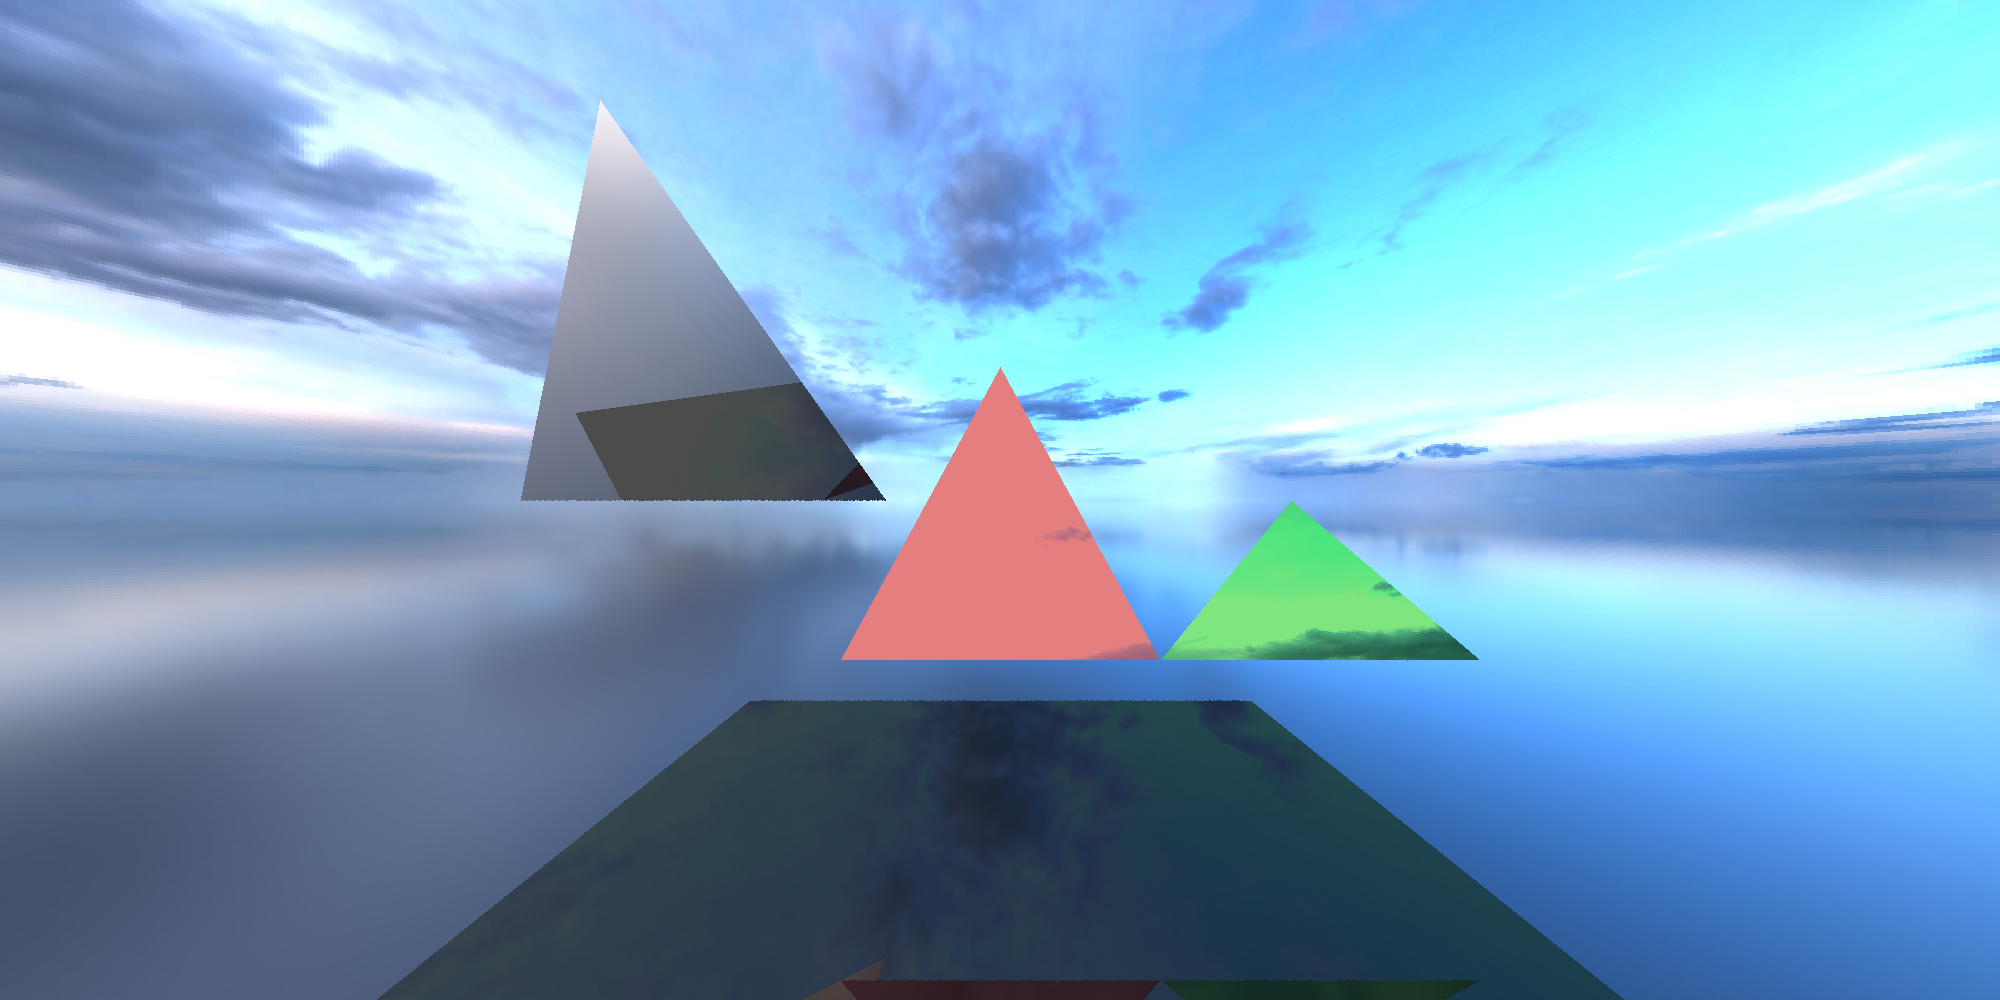
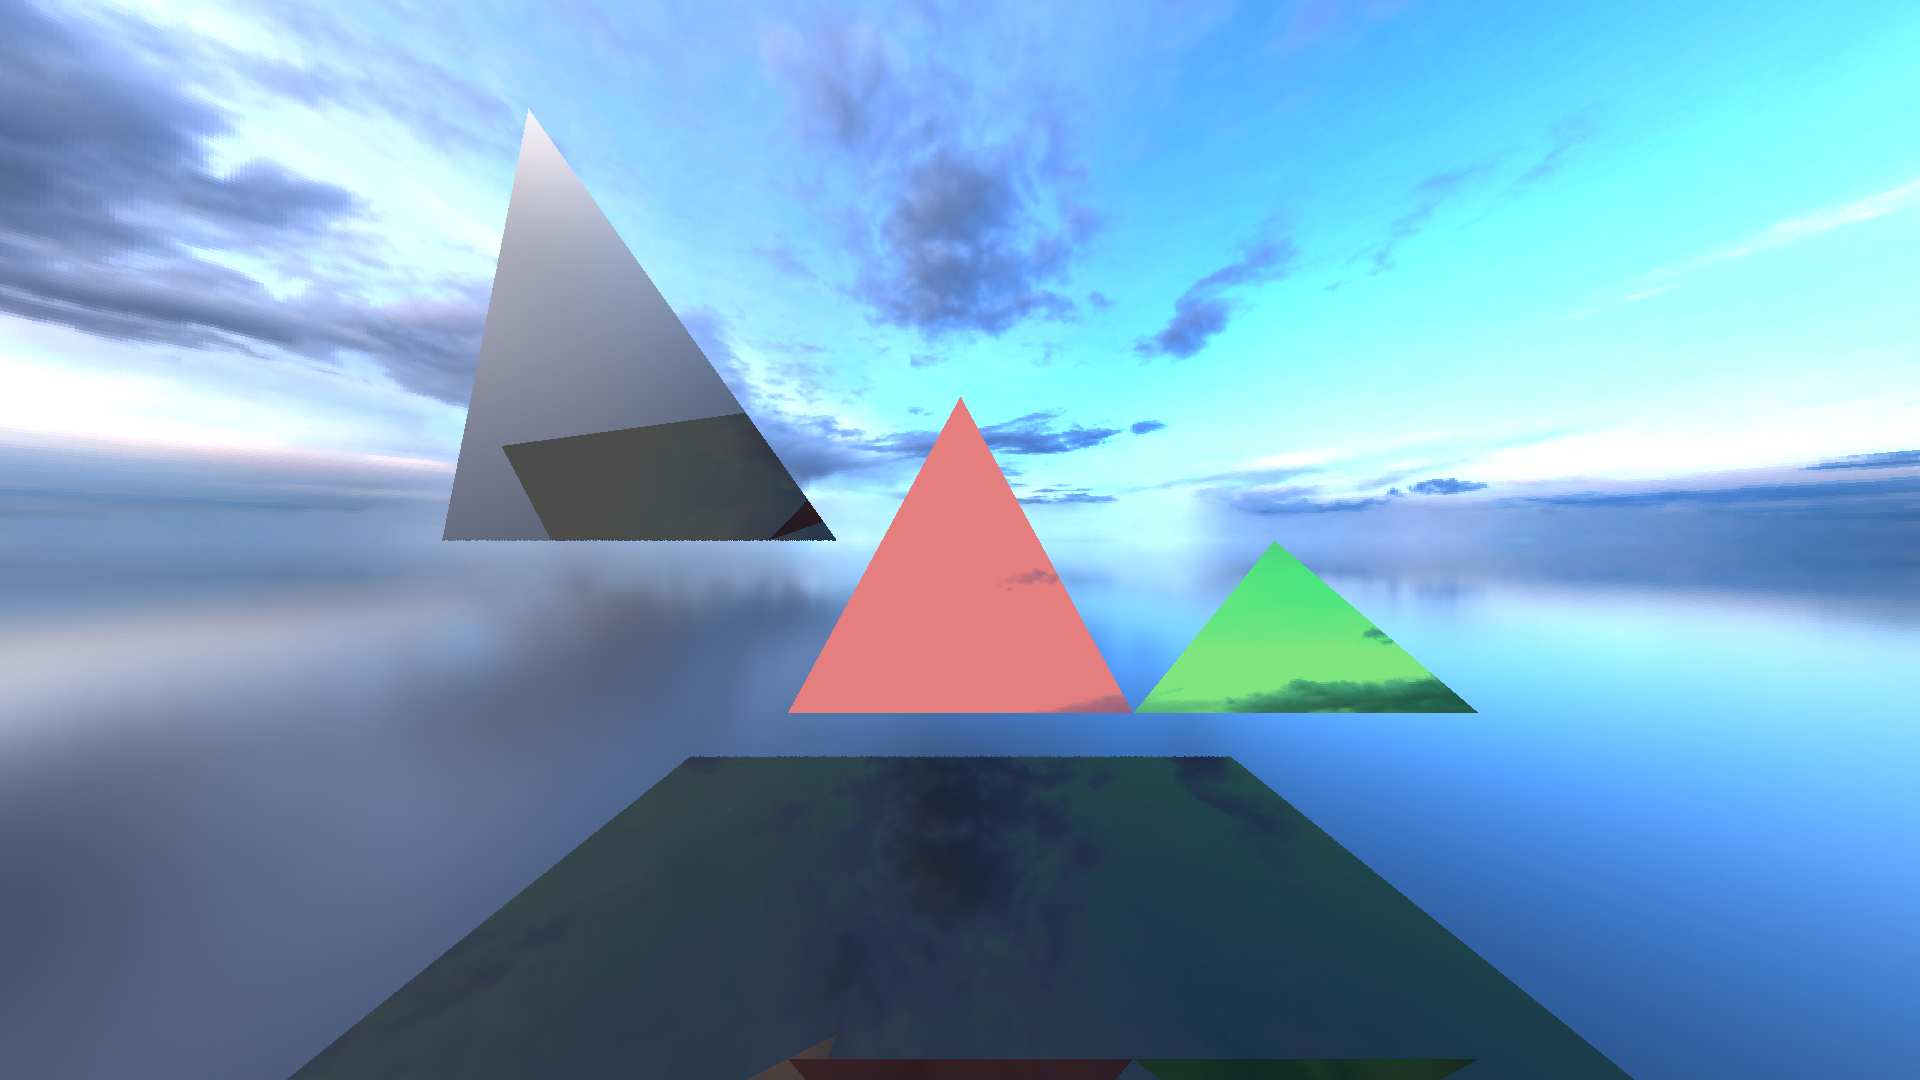
bitfaster

diff --git a/Program.cs b/Program.cs
@@ -16,8 +16,8 @@ namespace Raytrace
     {
 
 
-        static int imagewidth = 2000;
-        static int imageheight = 1000;
+        static int imagewidth = 1920;
+        static int imageheight = 1080;
 
 
 
@@ -46,14 +46,15 @@ namespace Raytrace
                 Parallel.ForEach(pixelrays[i], (Ray, state, index) =>
                 {
                     Ray = TraceRays(Ray, Scenetris);
+                    int templength = Ray.Length-1;
                     //System.Console.WriteLine("ray {0}    {1}    {2}",Ray[0].direction.x,Ray[0].direction.y,Ray[0].direction.z);
                     //System.Console.WriteLine("ray {0}    {1}    {2}", Ray[10].direction.x,Ray[10].direction.y,Ray[10].direction.z);
-                    float3 test = MapRayToSkybox(Ray[Ray.Length-1]);
+                    float3 test = MapRayToSkybox(Ray[templength]);
                     int temp1 = (int)(skybox.Width * test.y + skybox.Width * 0.5);
                     int temp2 = (int)((skybox.Height * test.x) + (skybox.Height * 0.5));
                     
                     
-                    image[i, (int)index] = Color.FromRgb(Convert.ToByte((int)(skybox[temp1, temp2].R* Ray[Ray.Length-1].Strength.x)), Convert.ToByte((int)(skybox[temp1, temp2].G * Ray[Ray.Length-1].Strength.y)), Convert.ToByte((int)(skybox[temp1, temp2].B * Ray[Ray.Length-1].Strength.z)));
+                    image[i, (int)index] = Color.FromRgb(Convert.ToByte((int)(skybox[temp1, temp2].R* Ray[templength].Strength.x)), Convert.ToByte((int)(skybox[temp1, temp2].G * Ray[templength].Strength.y)), Convert.ToByte((int)(skybox[temp1, temp2].B * Ray[templength].Strength.z)));
                     
 
 

diff --git a/RaytracingLib.cs b/RaytracingLib.cs
@@ -282,7 +282,7 @@ namespace Raytrace
                     {
                         float4 intersect = new float4(0, 0, 0, 100);
                         Triangle temptri = new Triangle(new float3(0, 0, 0), new float3(0, 0, 0), new float3(0, 0, 0), new float3(0, 0, 0));
-
+                        int templength = rays.Length-1;
 
                         foreach (Triangle tri in Scenetris)
                         {
@@ -298,9 +298,9 @@ namespace Raytrace
                         }
                         if (intersect.x == 0 && intersect.y == 0 && intersect.z == 0)
                         {
-                            rays[10].origin = new float3(0, 0, 0);
-                            rays[10].Strength = rays[i].Strength;
-                            rays[10].direction = rays[i].direction;
+                            rays[templength].origin = new float3(0, 0, 0);
+                            rays[templength].Strength = rays[i].Strength;
+                            rays[templength].direction = rays[i].direction;
                             break;
                         }
                         else
